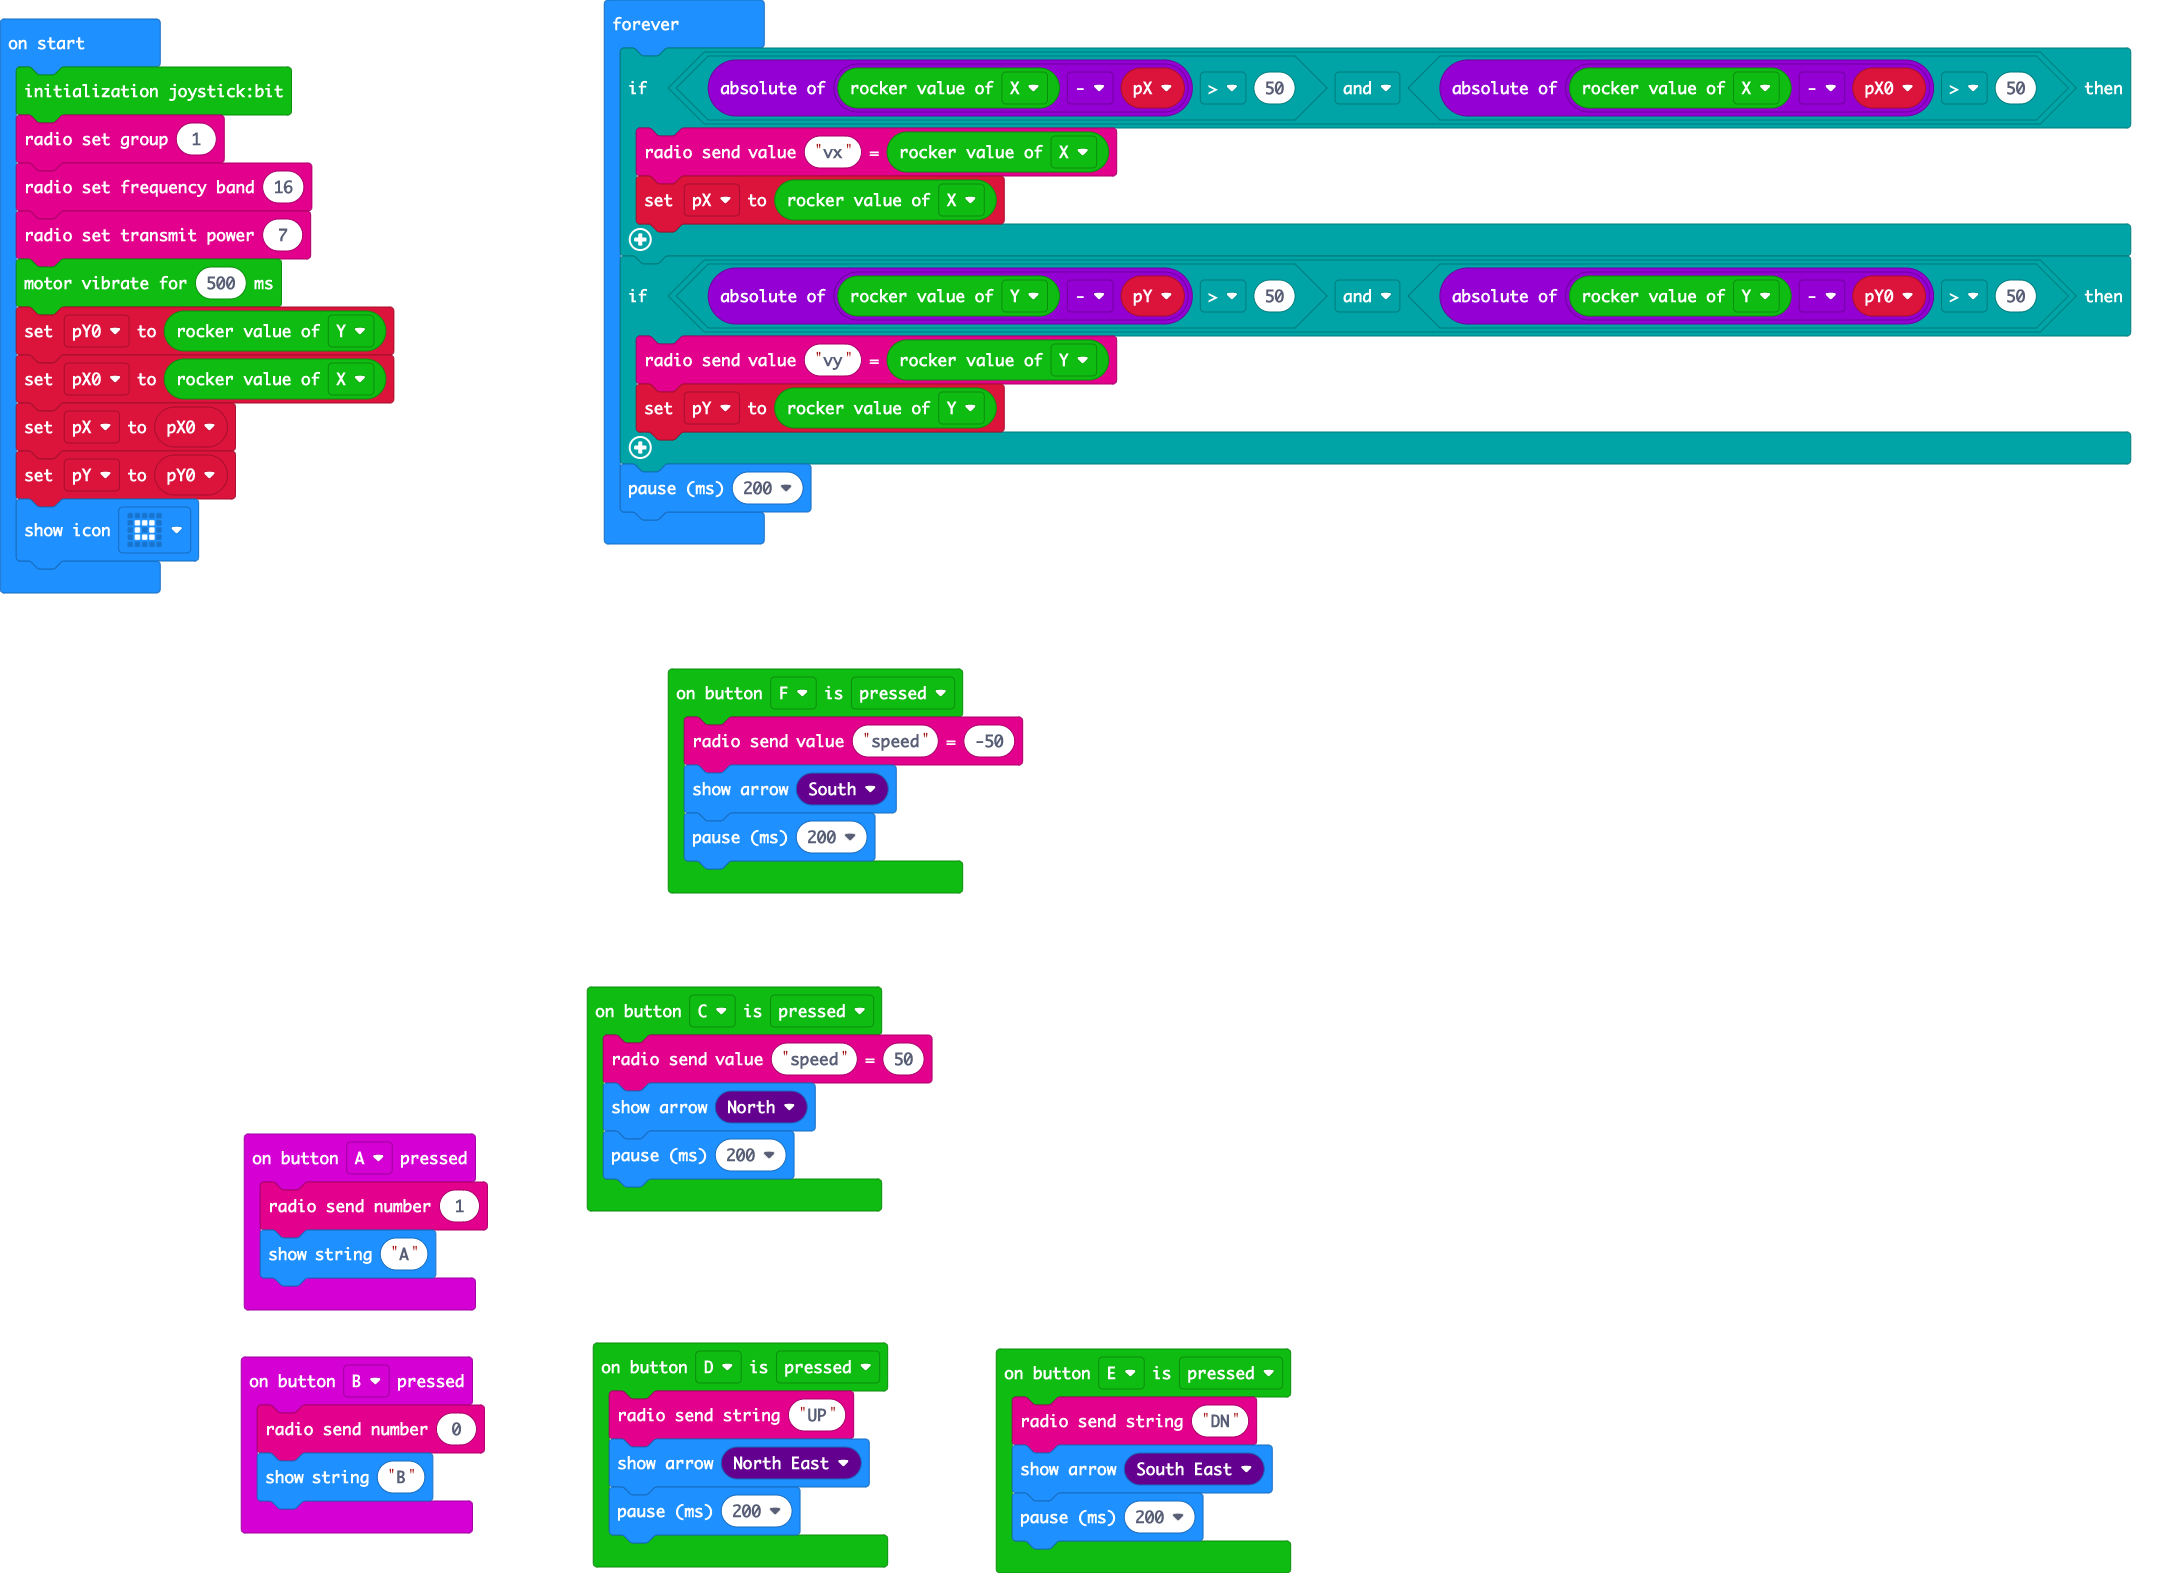
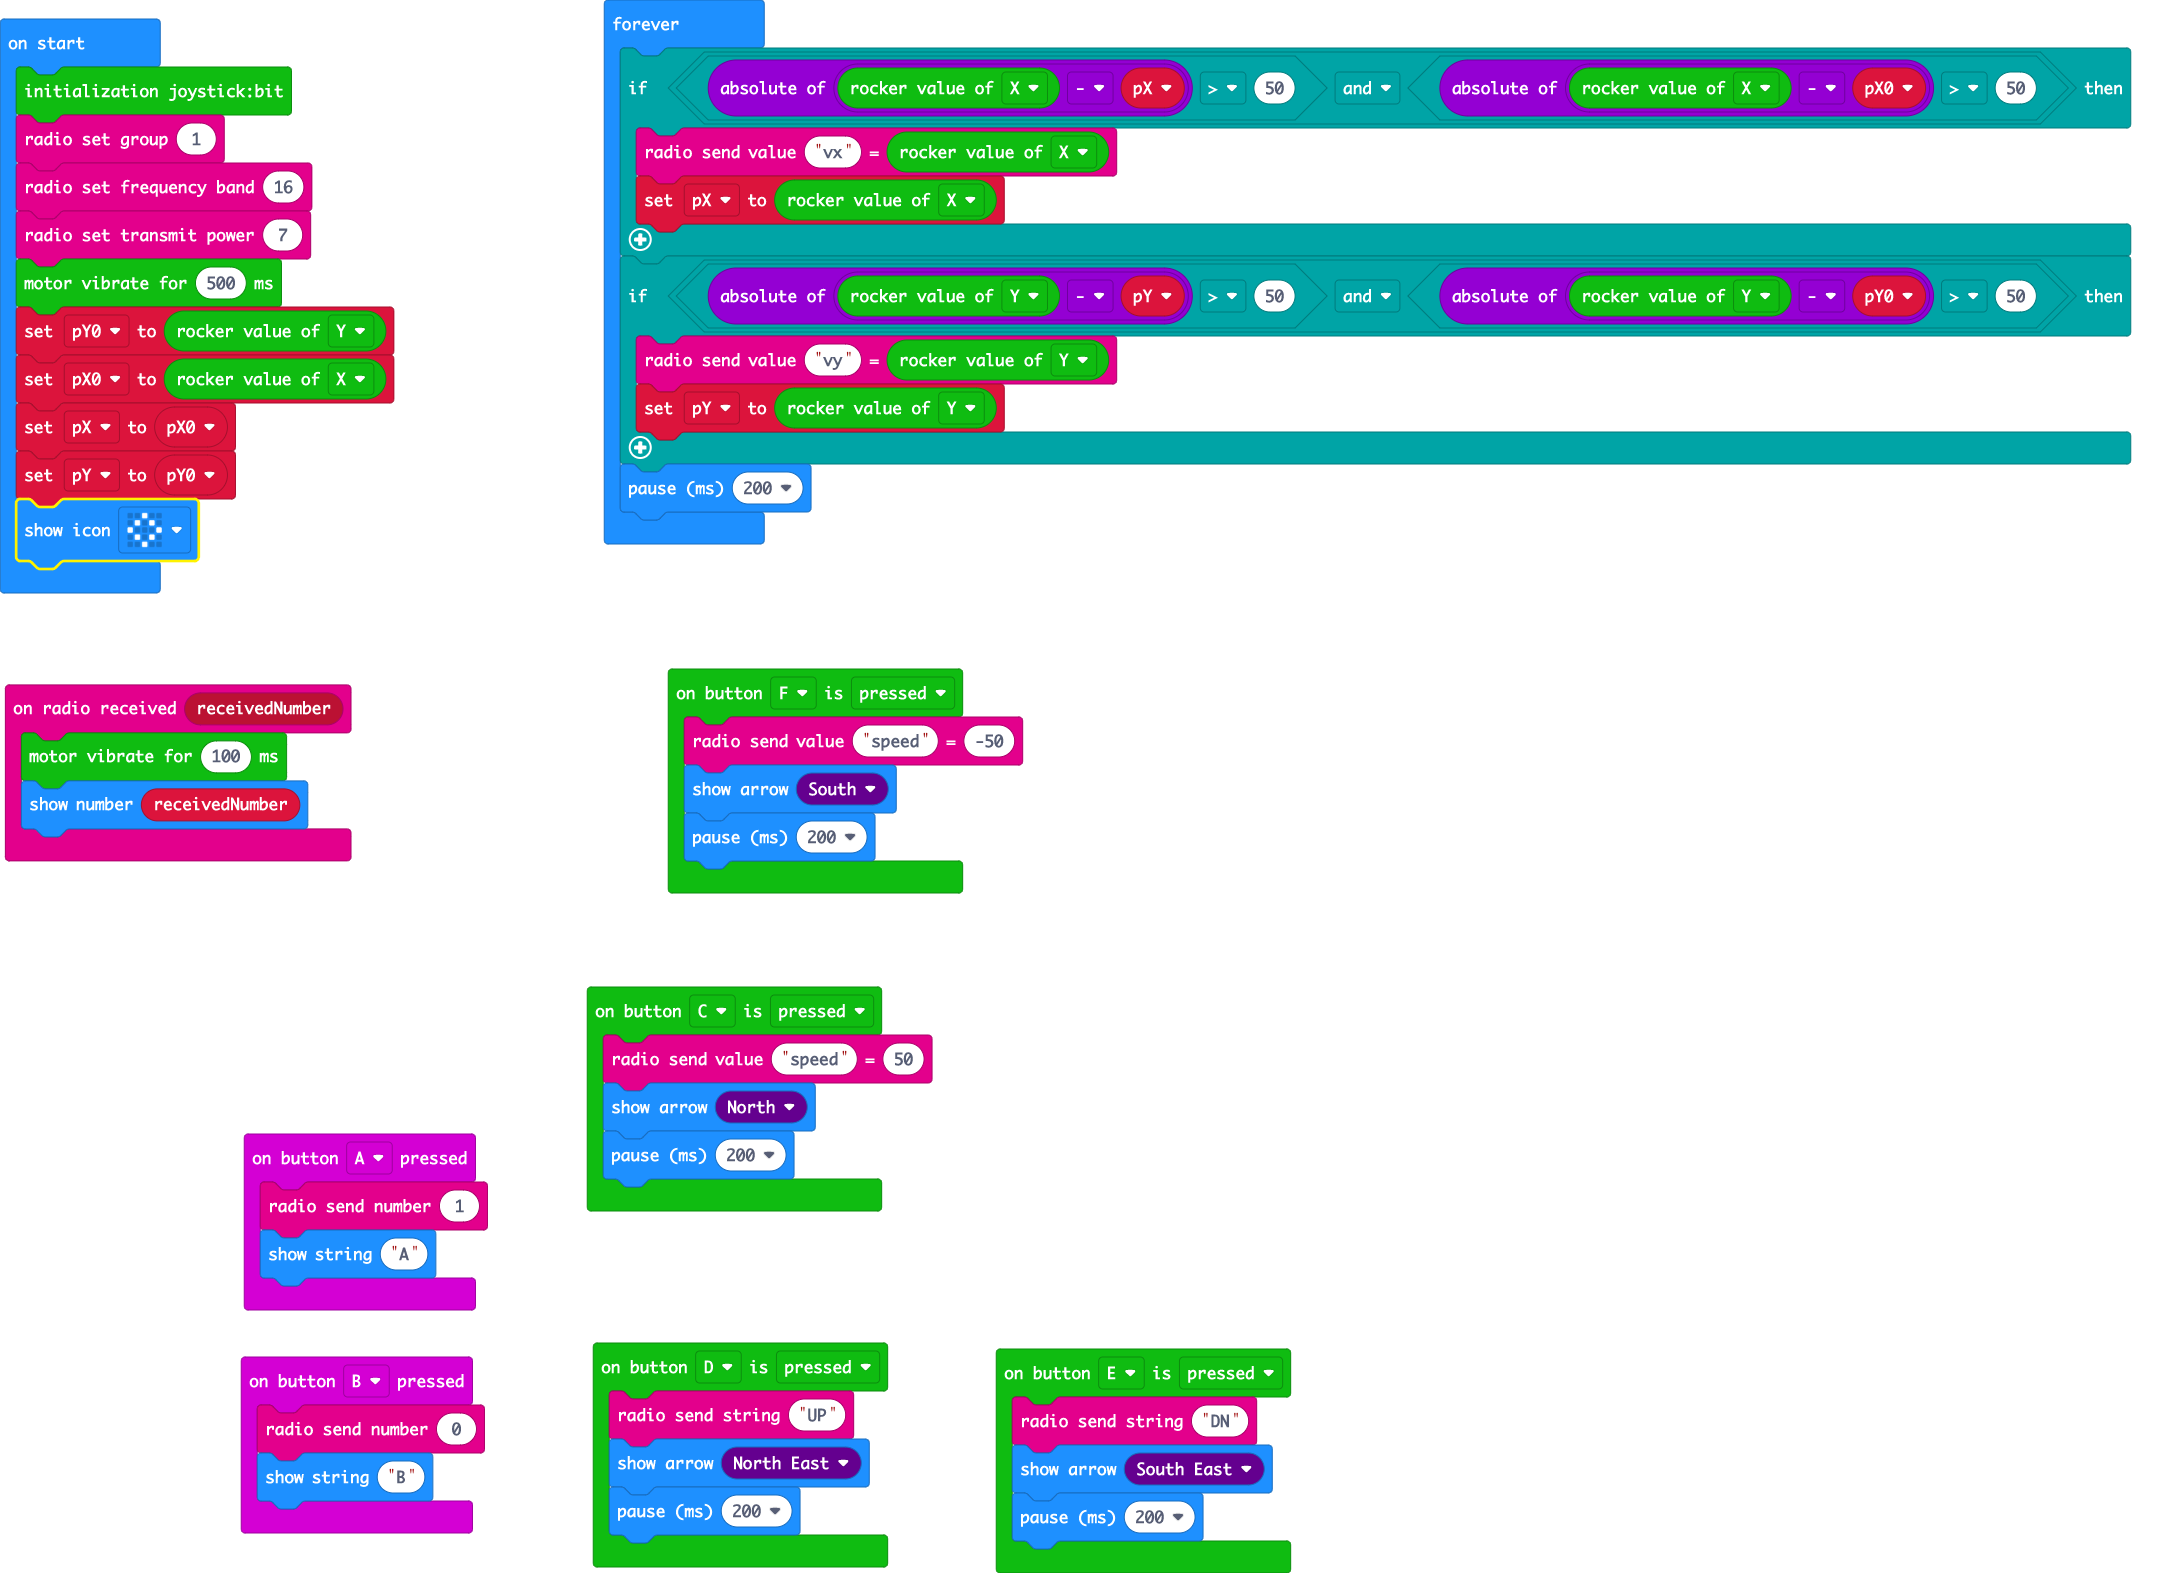
receive and display number on joystick microbit

Changed region(s): [[0.0, 0.4361, 0.1869, 0.5607], [0.0623, 0.3115, 0.0934, 0.3738], [0.0, 0.3115, 0.0311, 0.3427]]

diff --git a/main.ts b/main.ts
@@ -1,3 +1,7 @@
+radio.onReceivedNumber(function (receivedNumber) {
+    joystickbit.Vibration_Motor(100)
+    basic.showNumber(receivedNumber)
+})
 joystickbit.onButtonEvent(joystickbit.JoystickBitPin.P14, joystickbit.ButtonType.down, function () {
     radio.sendString("DN")
     basic.showArrow(ArrowNames.SouthEast)
@@ -35,7 +39,7 @@ let pY0 = joystickbit.getRockerValue(joystickbit.rockerType.Y)
 let pX0 = joystickbit.getRockerValue(joystickbit.rockerType.X)
 let pX = pX0
 let pY = pY0
-basic.showIcon(IconNames.SmallSquare)
+basic.showIcon(IconNames.Diamond)
 basic.forever(function () {
     if (Math.abs(joystickbit.getRockerValue(joystickbit.rockerType.X) - pX) > 50 && Math.abs(joystickbit.getRockerValue(joystickbit.rockerType.X) - pX0) > 50) {
         radio.sendValue("vx", joystickbit.getRockerValue(joystickbit.rockerType.X))
